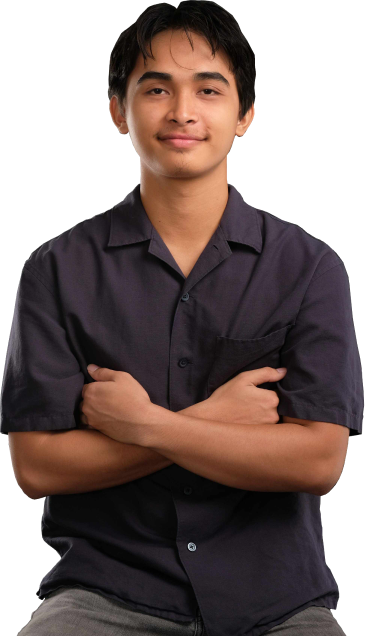
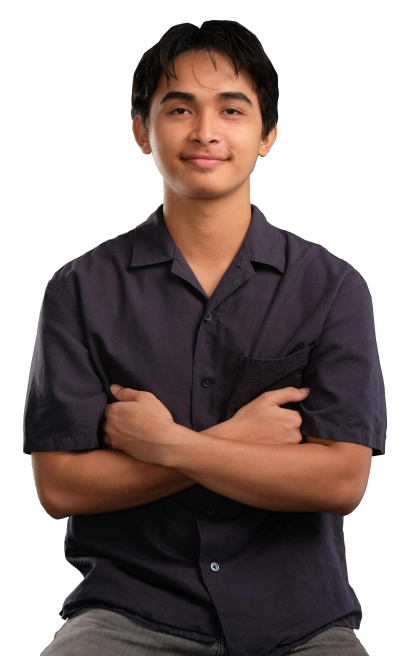
feat: added hover

diff --git a/src/scss/events/patch2025/_hero.scss b/src/scss/events/patch2025/_hero.scss
@@ -25,7 +25,6 @@
         text-underline-position: from-font;
         text-decoration-skip-ink: none;
 
-        margin-top: 0;
         margin-bottom: 0;
     }
 
@@ -122,6 +121,8 @@
         display: flex;
 
         gap: 16px;
+
+        align-items: center;
     }
 
     
@@ -138,13 +139,57 @@
         }
     }
 
+    div#right-side {
+        display: flex;
+        align-items: baseline;
+    }
+
+    div#speaker-container {
+        position: relative;
+        bottom: 0;
+        transition: all 0.3s ease;
+        
+        .original {    
+            position: absolute;
+            left: 0;
+            bottom: 0;
+
+            opacity: 0;
+            transition: all 0.3s ease;
+
+            z-index: 2;
+        }
+        .pixelart {
+            position: relative;
+            top: 4.8px;
+            bottom: 0;
+
+            opacity: 1;
+            transition: all 0.3s ease;
+            z-index: 1;
+        }
+
+        &:hover {
+            .original {
+                opacity: 1;
+                transition: all 0.3s ease;
+            }
+            .pixelart {
+                opacity: 0;
+                transition: all 0.3s ease;
+            }
+        }
+    }
+
     @include mixins.tablets {
         padding: 3%;
         padding-top: 0;
+        padding-bottom: 0;
     }
 
     @include mixins.xlarge-screens {
         padding: 2%;
         padding-top: 0;
+        padding-bottom: 0;
     }
 }

diff --git a/src/scss/events/patch2025/_page.scss b/src/scss/events/patch2025/_page.scss
@@ -264,7 +264,7 @@ div.speaker {
 
     background-color: variables.$boot2025-white;
     
-    border-width: 4px 4px 4px 4px;
+    border-width: 2px;
     border-style: solid;
     border-color: variables.$patch2025-dark-grey;
     
@@ -459,6 +459,31 @@ p.emcee-name {
 supersection {
     display: block;
     width: 100%;
+}
+
+
+.space-section {
+    @include mixins.tablets {
+        padding: 3%;
+        padding-bottom: 0;
+    }
+
+    @include mixins.xlarge-screens {
+        padding: 2%;
+        padding-bottom: 0;
+    }
+}
+
+.space-area {
+
+    padding-top: 8rem;
+    padding-bottom: 16rem;
+
+    background: url("/assets/events/patch2025/img/space_earth.png"), url("/assets/events/patch2025/img/space_space.png");
+    background-position-x: center, center;
+    background-position-y: bottom -64px, center;
+    background-size: 90%, cover;
+    background-repeat: no-repeat, repeat;
 }
 
 .dark-grey-area {

diff --git a/pages/events/patch2025/_space-section.html b/pages/events/patch2025/_space-section.html
@@ -1,0 +1,6 @@
+<section class="container">
+    <h1>Discover Fullstack Web Development in  2025</h1>
+    <p class="description">
+        In the 30 years of its existence, the web has gone through different changes as technology advanced. It used to be that every new action on the web meant loading up a new page from the server. Nowadays, it is common to see web pages just calling a REST API and updating its DOM. In the early days, deployment means opening up your FTP client and transferring files to the server. But, the new challenges posed by more complex apps have given rise to technologies such as Docker to simplify delivery of web apps. In <span>Dev8 PATCH 2025: Fullstack Web 101</span>, we will learn the latest methods of developing and deploying web applications.
+    </p>
+</section>

diff --git a/pages/events/patch2025/index.html b/pages/events/patch2025/index.html
@@ -15,9 +15,24 @@
 {% block css %}<link href="/assets/events/patch2025/css/index.css" rel="stylesheet" type="text/css">{% endblock %}
 {% block content %}
 
+<script lang="javascript">
+
+</script>
+
 <main>
     {% include 'pages/events/patch2025/_hero-section.html' %}
+    <supersection class="space-area">
+        {% include 'pages/events/patch2025/_space-section.html' %}
+    </supersection>
+    <supersection class="dark-grey-area">
 
+    </supersection>
+    <supersection class="grey-area">
+
+    </supersection>
+    <supersection class="light-grey-area">
+
+    </supersection>
 </main>
 
 {% endblock %}

diff --git a/pages/events/patch2025/_hero-section.html b/pages/events/patch2025/_hero-section.html
@@ -63,6 +63,9 @@
         </div>
     </div>
     <div id="right-side">
-        <img src="/assets/events/patch2025/img/speaker_pixelart.png" alt="Speaker">
+        <div id="speaker-container">
+            <img class="pixelart" src="/assets/events/patch2025/img/speaker_pixelart.png" alt="Speaker">
+            <img class="original" src="/assets/events/patch2025/img/speaker_original.png" alt="Speaker">
+        </div>
     </div>
 </section>

diff --git a/pages/events/patch2025/_components.html b/pages/events/patch2025/_components.html
@@ -6,7 +6,7 @@
 
 {% macro limited_only() -%}
 <span href="/events/patch2025/registration" class="limited-only">
-    Limited Slots Only!
+    15 Slots Only!
 </span>
 {%- endmacro %}
 
